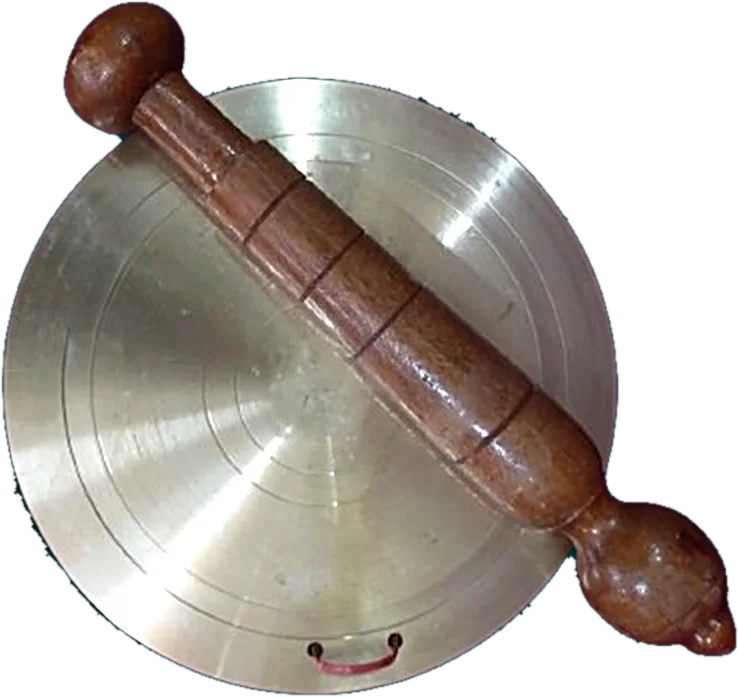
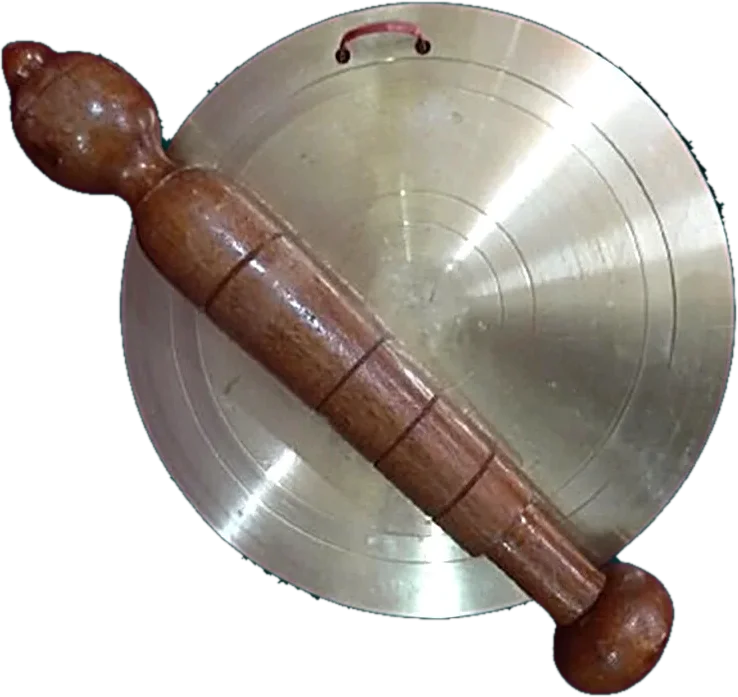
Jayagante photos upright; kumkum red and blue accents on checkout
- Hero cut-out and fallback Jayagante photos turned so the hanging loop
  is at the top (live product photos/video replaced in Supabase)
- Checkout: kumkum-red step numbers, red→gold→blue band under the title
  and on the order summary, blue for "Pay now" and focused fields,
  red for "Pay on delivery"

diff --git a/src/pages/Checkout.tsx b/src/pages/Checkout.tsx
@@ -1,4 +1,4 @@
-import { useEffect, useMemo, useState } from 'react';
+import { useEffect, useMemo, useState, type ReactNode } from 'react';
 import { Link, useNavigate } from 'react-router-dom';
 import { AnimatePresence, motion } from 'framer-motion';
 import { useLang } from '../i18n/useLang';
@@ -47,7 +47,7 @@ const EMPTY: CheckoutCustomer = {
 type Field = 'name' | 'email' | 'phone' | 'address' | 'city' | 'state' | 'pincode' | 'gstin' | 'deliveryDate';
 
 const inputBase =
-  'w-full bg-emerald-950 border rounded-md px-3 py-2.5 text-sm outline-none transition-colors focus:border-gold';
+  'w-full bg-emerald-950 border rounded-md px-3 py-2.5 text-sm outline-none transition-colors focus:border-neela-light focus:ring-2 focus:ring-neela/40';
 
 /** Same rules as the create-order function, so most mistakes are caught before sending. */
 function validate(c: CheckoutCustomer, earliest: string): Field[] {
@@ -228,13 +228,14 @@ export default function Checkout() {
 
   return (
     <div className="max-w-6xl mx-auto px-5 py-12">
-      <h1 className="font-heading text-gold text-3xl mb-8">{t('coTitle')}</h1>
+      <h1 className="font-heading text-gold text-3xl">{t('coTitle')}</h1>
+      <TempleBand className="w-28 mt-3 mb-8" />
 
       <form onSubmit={handleSubmit} noValidate className="grid lg:grid-cols-[1fr_380px] gap-8 items-start">
         <div className="space-y-6">
           {/* Contact */}
           <section className={cardClass}>
-            <h2 className="font-heading text-cream text-lg mb-4">1. {t('coContact')}</h2>
+            <StepTitle n={1}>{t('coContact')}</StepTitle>
             <div className="grid sm:grid-cols-2 gap-4">
               <div className="sm:col-span-2" data-first-error={firstError === 'name' || undefined}>
                 <label className={label}>{t('coFullName')}</label>
@@ -268,7 +269,7 @@ export default function Checkout() {
 
           {/* Address */}
           <section className={cardClass}>
-            <h2 className="font-heading text-cream text-lg mb-4">2. {t('coAddress')}</h2>
+            <StepTitle n={2}>{t('coAddress')}</StepTitle>
             <div className="grid sm:grid-cols-2 gap-4">
               <div className="sm:col-span-2" data-first-error={firstError === 'address' || undefined}>
                 <label className={label}>{t('coAddress1')}</label>
@@ -334,7 +335,7 @@ export default function Checkout() {
 
           {/* Delivery */}
           <section className={cardClass}>
-            <h2 className="font-heading text-cream text-lg mb-4">3. {t('coDelivery')}</h2>
+            <StepTitle n={3}>{t('coDelivery')}</StepTitle>
             <div className="space-y-4">
               <div className="max-w-xs" data-first-error={firstError === 'deliveryDate' || undefined}>
                 <label className={label}>{t('coDeliveryDate')}</label>
@@ -373,11 +374,11 @@ export default function Checkout() {
 
           {/* Payment */}
           <section className={cardClass}>
-            <h2 className="font-heading text-cream text-lg mb-4">4. {t('coPayment')}</h2>
+            <StepTitle n={4}>{t('coPayment')}</StepTitle>
             <div role="radiogroup" className="grid sm:grid-cols-2 gap-3">
               {(
                 [
-                  { key: 'online', title: t('coPayNow'), hint: t('coPayNowHint'), enabled: onlineAllowed, icon: '💳' },
+                  { key: 'online', title: t('coPayNow'), hint: t('coPayNowHint'), enabled: onlineAllowed, icon: '💳', tone: 'neela' },
                   {
                     key: 'cod',
                     title: t('coCod'),
@@ -388,10 +389,12 @@ export default function Checkout() {
                         : t('coUnavailable'),
                     enabled: codAllowed,
                     icon: '🚚',
+                    tone: 'kumkum',
                   },
                 ] as const
               ).map((m) => {
                 const active = method === m.key;
+                const tone = PAY_TONES[m.tone];
                 return (
                   <button
                     key={m.key}
@@ -401,14 +404,14 @@ export default function Checkout() {
                     disabled={!m.enabled}
                     onClick={() => setMethod(m.key)}
                     className={`relative text-left rounded-xl border p-4 transition-colors disabled:opacity-45 disabled:cursor-not-allowed ${
-                      active ? 'border-gold bg-gold/10' : 'border-emerald-700 hover:border-gold/50'
+                      active ? tone.active : `border-emerald-700 ${tone.hover}`
                     }`}
                   >
                     <div className="flex items-center gap-2 mb-1">
                       <span
-                        className={`w-4 h-4 rounded-full border-2 flex items-center justify-center ${active ? 'border-gold' : 'border-cream/40'}`}
+                        className={`w-4 h-4 rounded-full border-2 flex items-center justify-center ${active ? tone.ring : 'border-cream/40'}`}
                       >
-                        {active && <span className="w-2 h-2 rounded-full bg-gold" />}
+                        {active && <span className={`w-2 h-2 rounded-full ${tone.dot}`} />}
                       </span>
                       <span className="text-cream font-medium">
                         {m.icon} {m.title}
@@ -419,12 +422,13 @@ export default function Checkout() {
                 );
               })}
             </div>
-            {method === 'online' && <p className="text-[11px] text-cream/40 mt-3">🔒 {t('coSecure')}</p>}
+            {method === 'online' && <p className="text-[11px] text-neela-light/80 mt-3">🔒 {t('coSecure')}</p>}
           </section>
         </div>
 
         {/* Summary */}
-        <aside className={`${cardClass} lg:sticky lg:top-24`}>
+        <aside className={`${cardClass} relative overflow-hidden lg:sticky lg:top-24`}>
+          <TempleBand className="absolute inset-x-0 top-0 rounded-none" />
           <h2 className="font-heading text-cream text-lg mb-4">{t('coSummary')}</h2>
           <ul className="space-y-3 mb-4 max-h-[40vh] overflow-y-auto pr-1">
             {cart.items.map((i) => (
@@ -497,5 +501,27 @@ export default function Checkout() {
         </aside>
       </form>
     </div>
+  );
+}
+
+/** Selected / hover styles for the two payment choices: blue for paying online, kumkum red for cash on delivery. */
+const PAY_TONES = {
+  neela: { active: 'border-neela-light bg-neela/20', hover: 'hover:border-neela-light/60', ring: 'border-neela-light', dot: 'bg-neela-light' },
+  kumkum: { active: 'border-kumkum-light bg-kumkum/20', hover: 'hover:border-kumkum-light/60', ring: 'border-kumkum-light', dot: 'bg-kumkum-light' },
+} as const;
+
+/** Thin kumkum → gold → blue band, like a temple thoran. */
+function TempleBand({ className = '' }: { className?: string }) {
+  return <div aria-hidden className={`h-1 rounded-full bg-gradient-to-r from-kumkum via-gold to-neela ${className}`} />;
+}
+
+function StepTitle({ n, children }: { n: number; children: ReactNode }) {
+  return (
+    <h2 className="font-heading text-cream text-lg mb-4 flex items-center gap-3">
+      <span className="w-7 h-7 shrink-0 rounded-full bg-kumkum text-cream font-body text-sm font-semibold flex items-center justify-center shadow-[0_0_0_3px_rgba(184,51,42,0.2)]">
+        {n}
+      </span>
+      {children}
+    </h2>
   );
 }

diff --git a/tailwind.config.js b/tailwind.config.js
@@ -16,6 +16,9 @@ export default {
           dark: '#a8823a',
         },
         cream: '#f4ede1',
+        // Temple accents, used sparingly (checkout): kumkum red and peacock blue
+        kumkum: { light: '#e0675c', DEFAULT: '#b8332a' },
+        neela: { light: '#86a9e8', DEFAULT: '#2a5caa' },
       },
       fontFamily: {
         // Kannada fallbacks: Latin text keeps Cinzel/Outfit, Kannada glyphs use these
